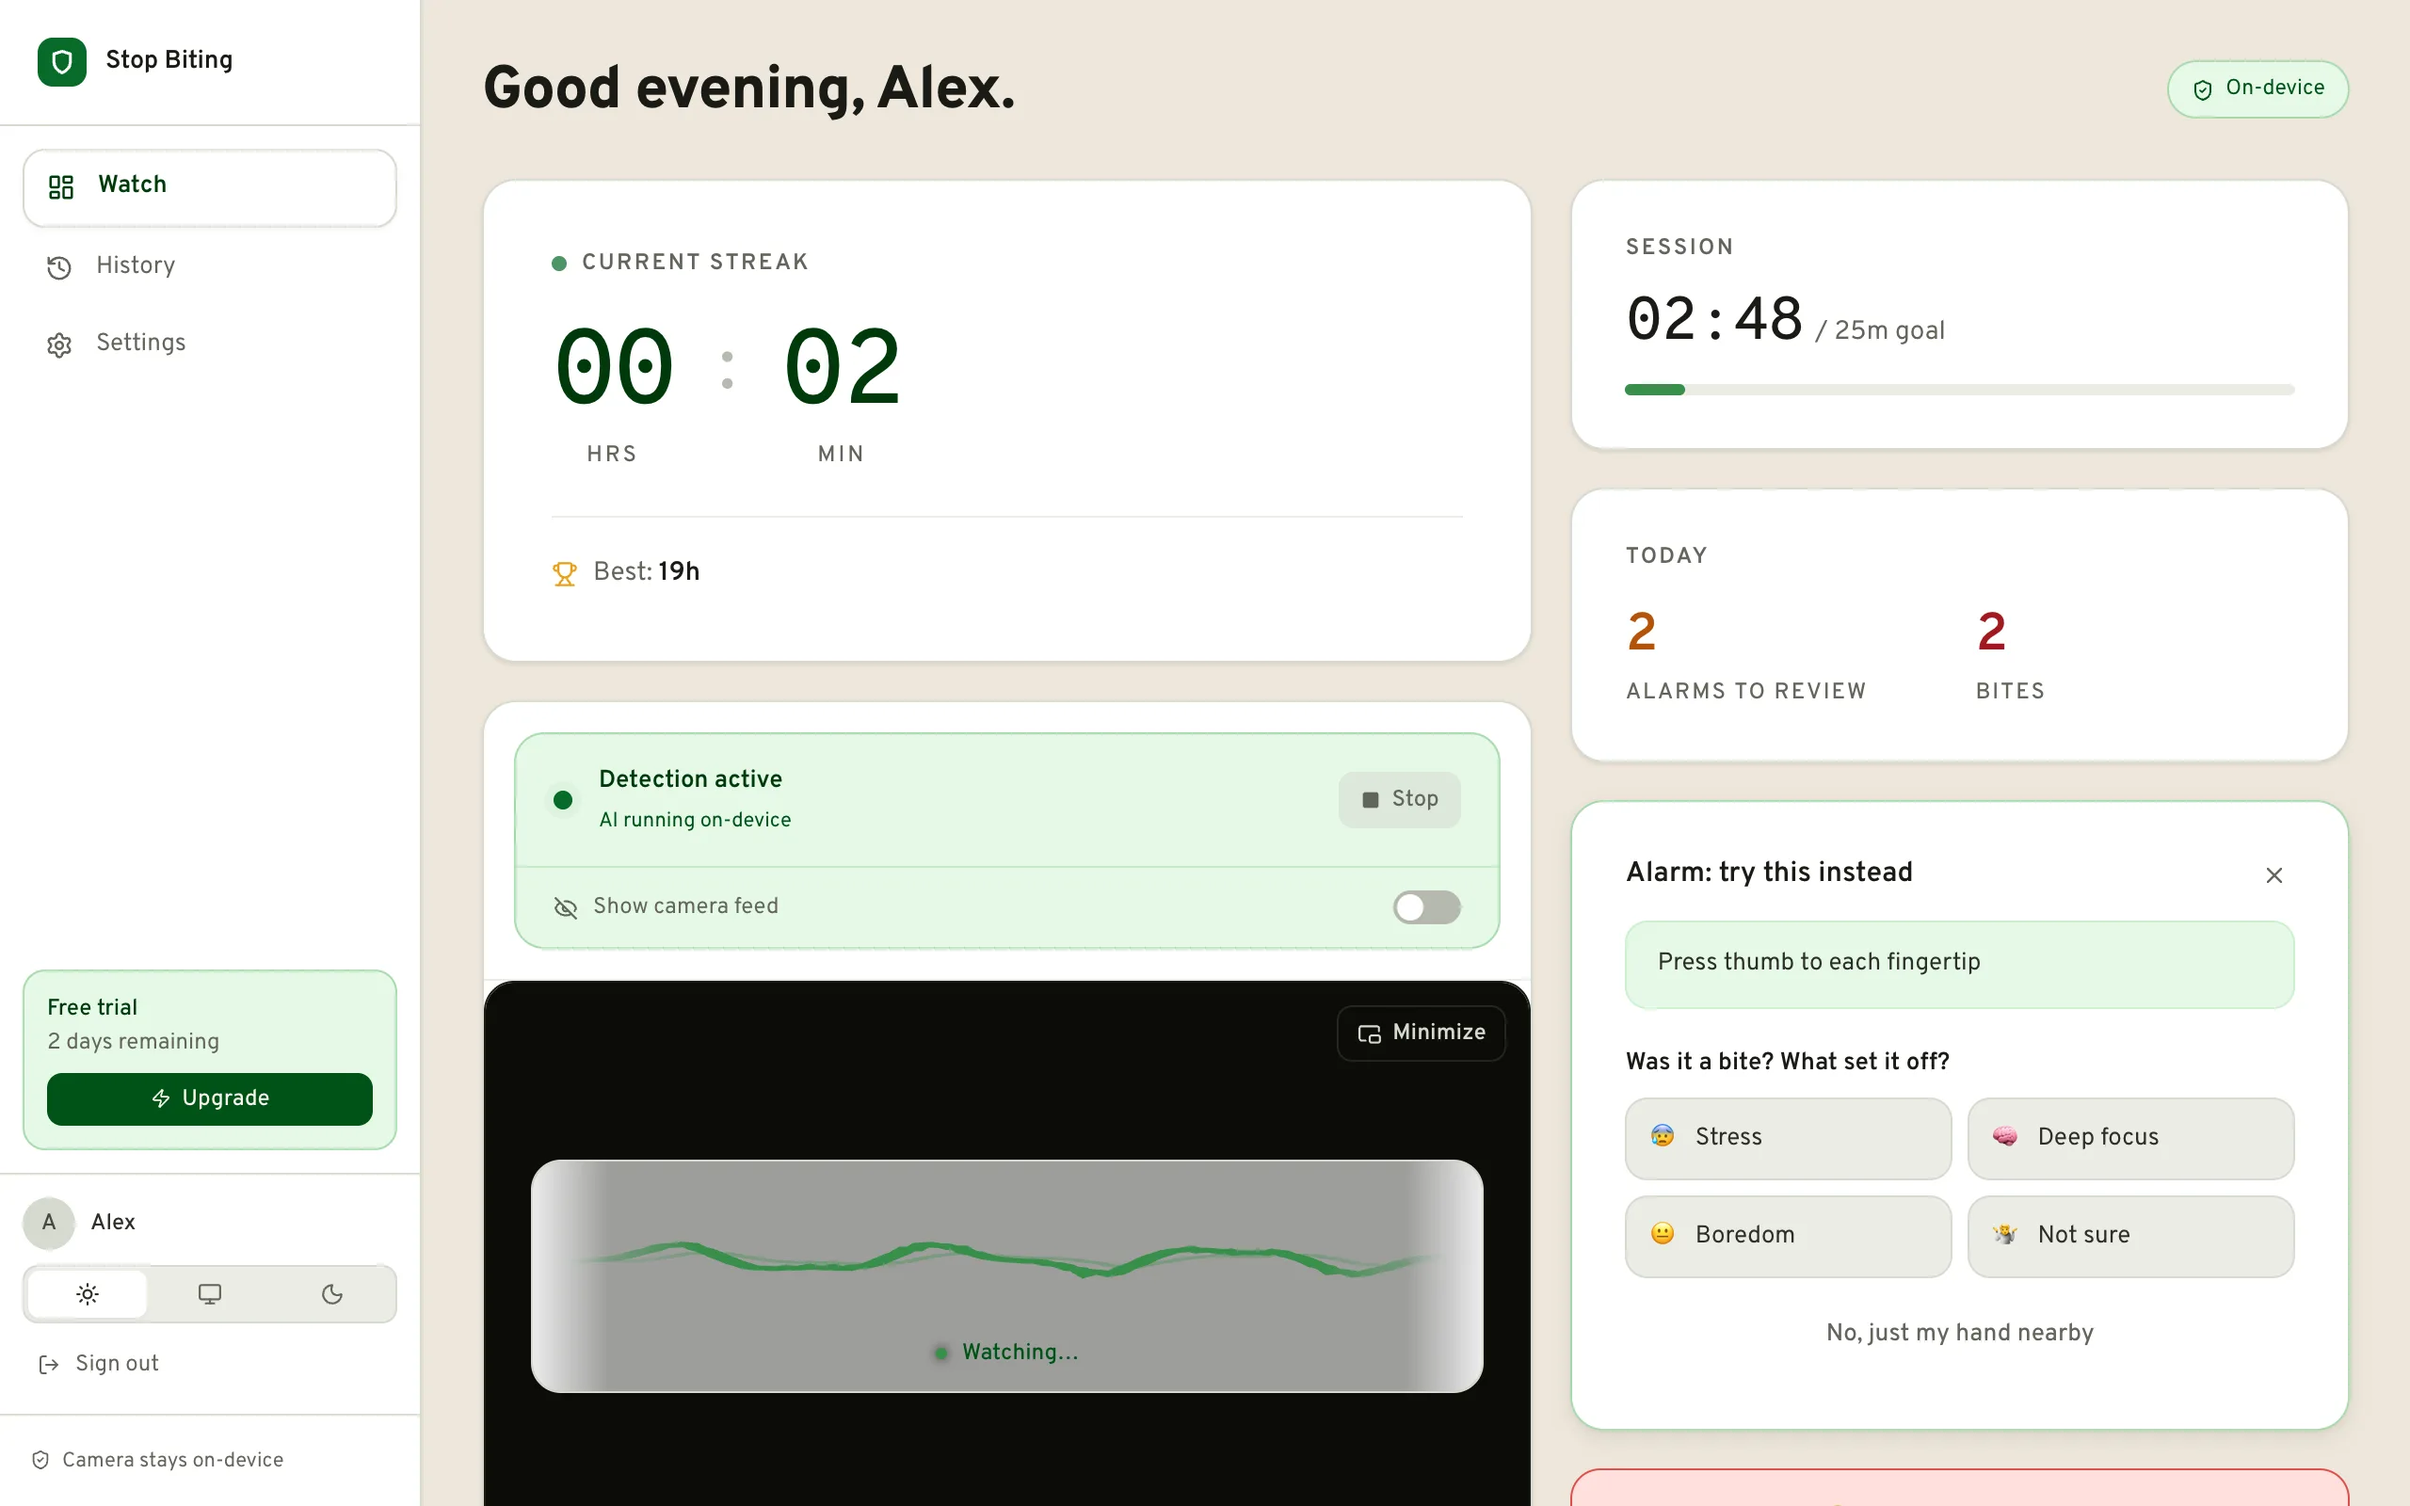
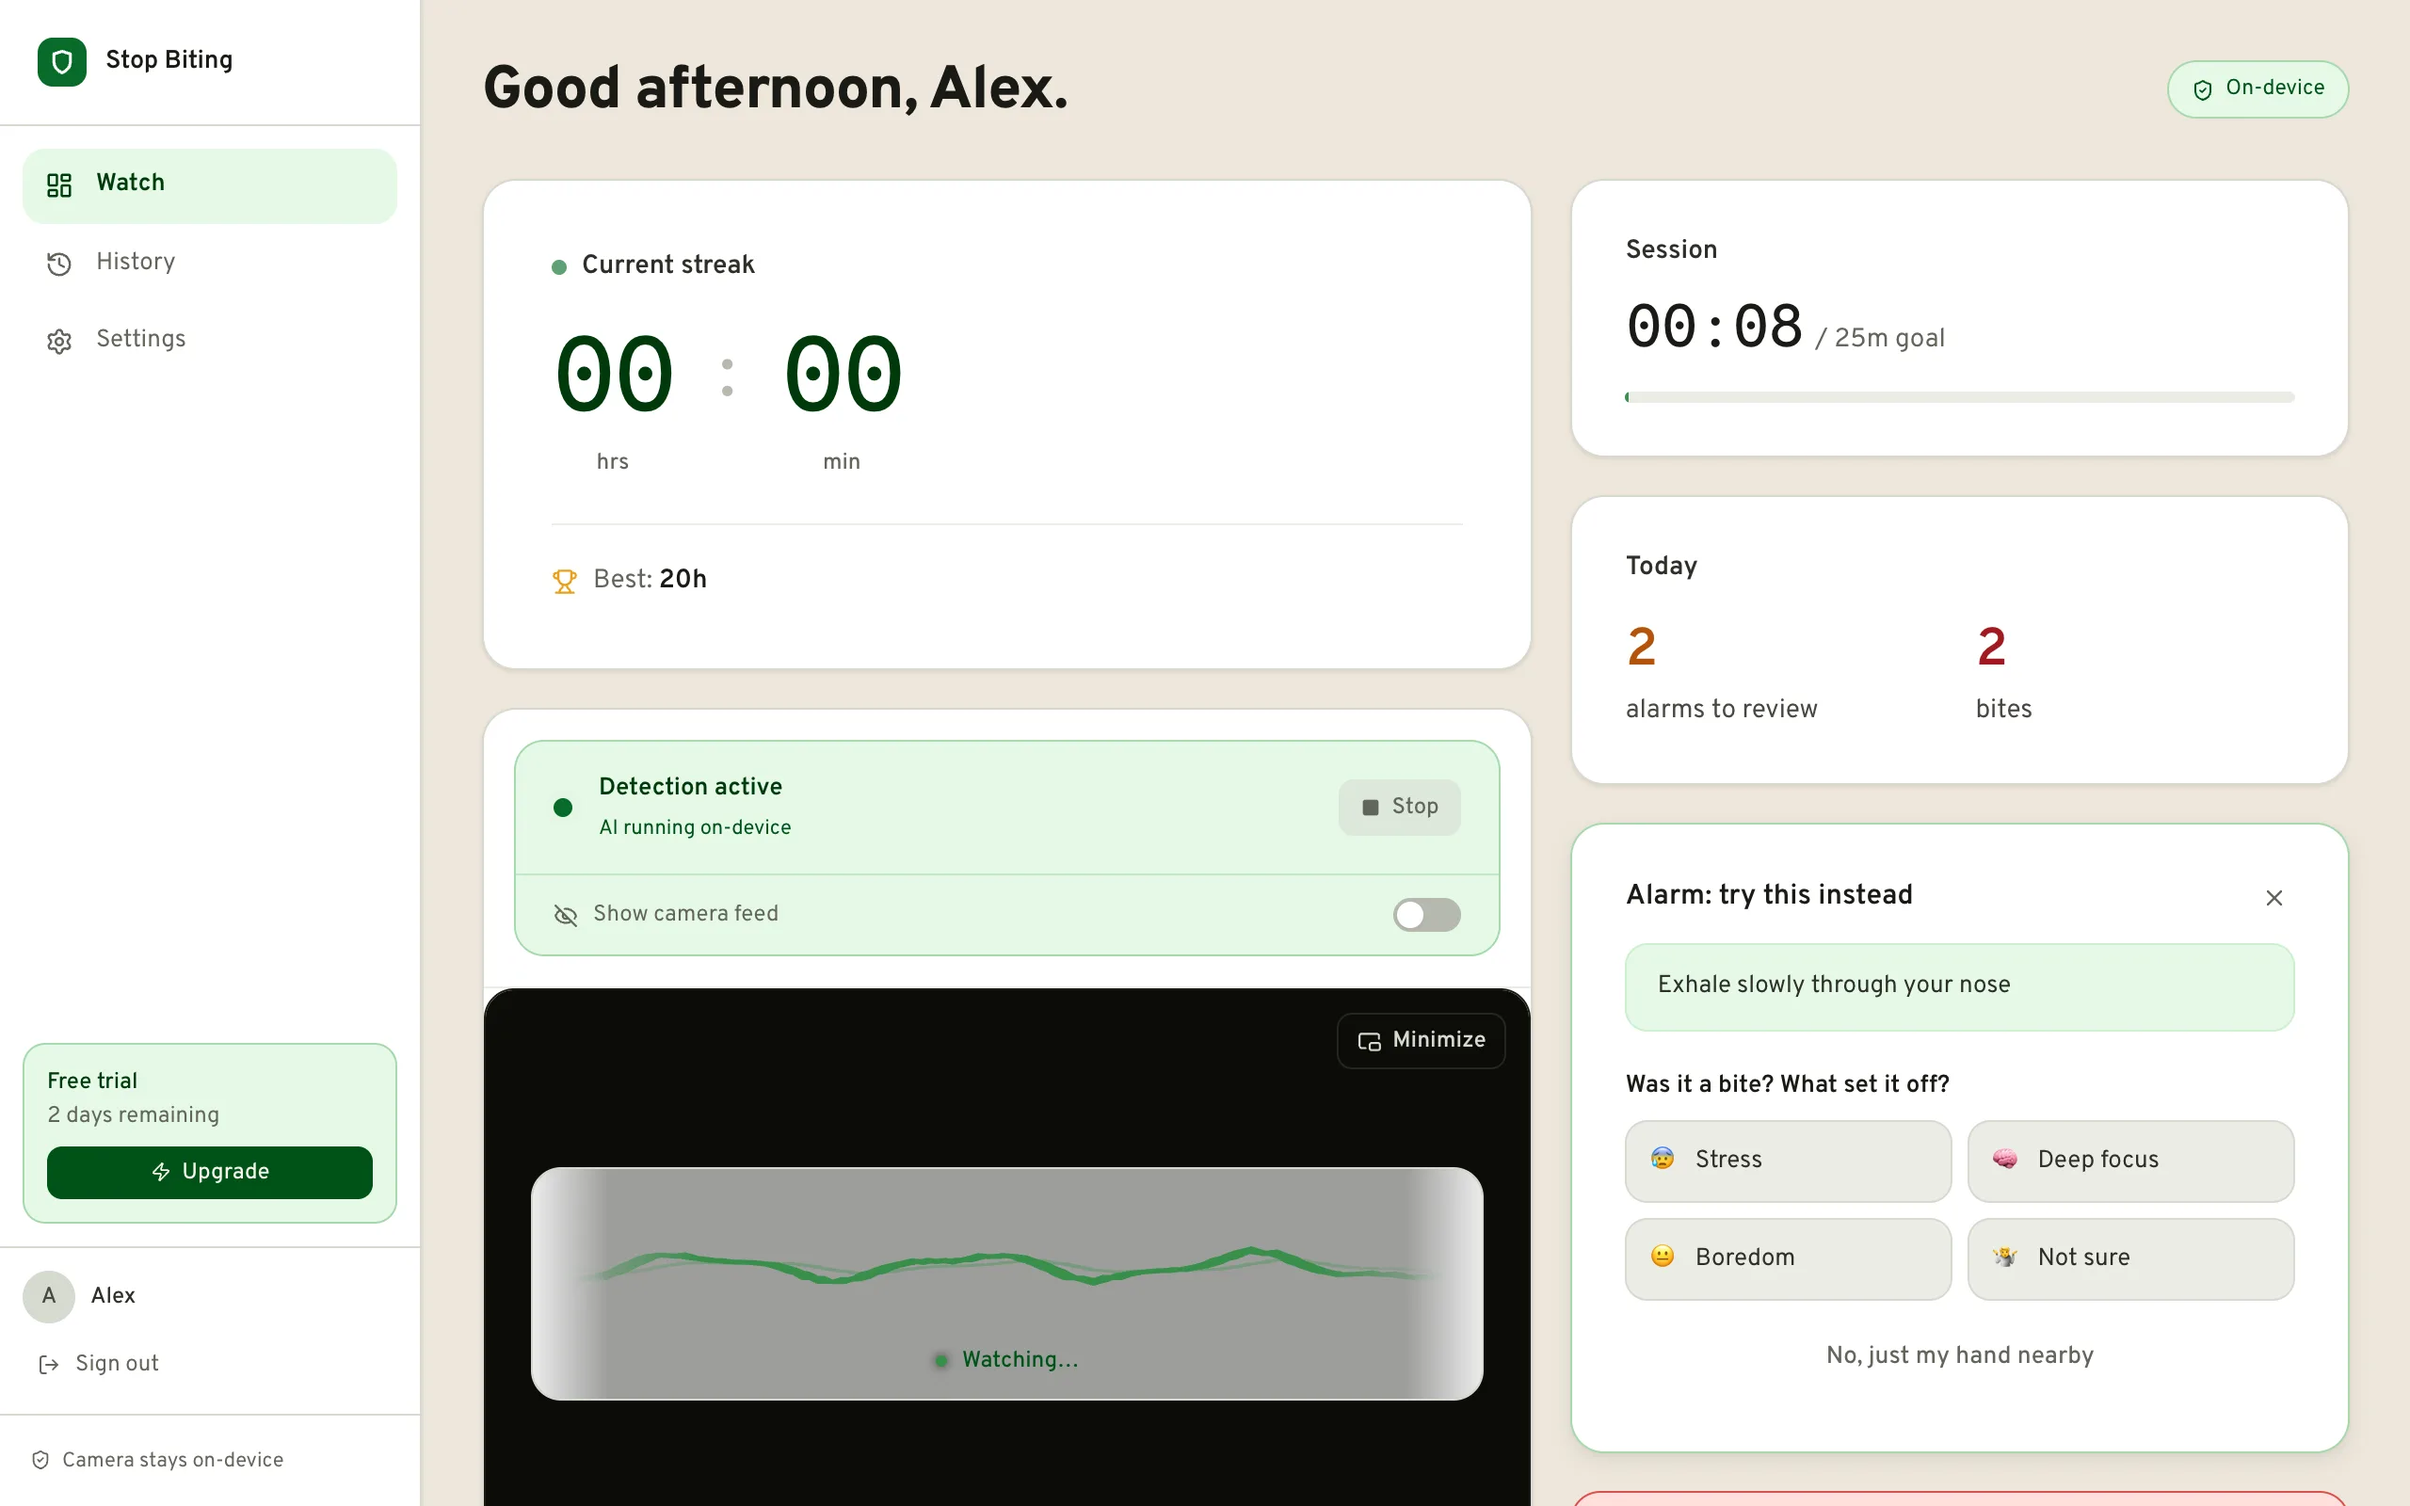
design(loop2 5/10): stop the app shouting its card labels
The last tracked-uppercase labels in the app (Current streak, Session, Today, Summary, the stat labels, History's entry count and day headers) become sentence-case semibold titles and plain stat labels; hrs/min keep their small unit size without forced capitals. Homepage app screenshots recaptured. Checked light and dark.

diff --git a/src/pages/Log.tsx b/src/pages/Log.tsx
@@ -161,7 +161,7 @@ export function Log() {
 
           {incidents.length > 0 && (
             <div className="bg-white dark:bg-ink-50 border border-stone-200 dark:border-ink-400 rounded-2xl p-5 shadow-card dark:shadow-card-dark">
-              <h2 className="text-stone-500 dark:text-stone-400 text-xs uppercase tracking-widest mb-3 font-semibold">Summary</h2>
+              <h2 className="text-sm font-semibold text-stone-700 dark:text-stone-200 mb-3">Summary</h2>
               <div className="space-y-2 text-sm">
                 <div className="flex justify-between">
                   <span className="text-amber-800 dark:text-amber-400">Alarms to review</span>
@@ -194,7 +194,7 @@ export function Log() {
             <div className="space-y-6">
               {/* Header row with clear-all */}
               <div className="flex items-center justify-between px-1">
-                <p className="text-stone-500 dark:text-stone-400 text-xs uppercase tracking-widest font-medium">
+                <p className="text-sm font-medium text-stone-600 dark:text-stone-300">
                   {incidents.length} {incidents.length !== 1 ? 'entries' : 'entry'}
                 </p>
                 <ClearAllButton />
@@ -202,7 +202,7 @@ export function Log() {
 
               {grouped.map(({ date, items }) => (
                 <div key={date}>
-                  <h3 className="text-stone-500 dark:text-stone-400 text-xs uppercase tracking-widest mb-3 px-1 font-medium">{date}</h3>
+                  <h3 className="text-sm font-semibold text-stone-700 dark:text-stone-200 mb-3 px-1">{date}</h3>
                   <div className="space-y-2">
                     {items.map(inc => {
                       const bite = isConfirmedBite(inc);

diff --git a/src/components/dashboard/TodayStats.tsx b/src/components/dashboard/TodayStats.tsx
@@ -11,13 +11,13 @@ export function TodayStats() {
 
   return (
     <div className="bg-white dark:bg-ink-50 border border-stone-200 dark:border-ink-400 rounded-[18px] p-7 shadow-card dark:shadow-card-dark">
-      <p className="text-xs font-semibold tracking-[1.2px] uppercase text-stone-500 dark:text-stone-400 mb-5">Today</p>
+      <p className="text-sm font-semibold text-stone-700 dark:text-stone-200 mb-5">Today</p>
       <div className="grid grid-cols-2 gap-4">
         <div>
           <p className="text-[28px] font-semibold tabular-nums tracking-tight text-amber-700 dark:text-amber-400 leading-none">
             {incidentCount}
           </p>
-          <p className="text-xs uppercase tracking-[1px] text-stone-500 dark:text-stone-400 mt-2 font-medium">
+          <p className="text-sm text-stone-600 dark:text-stone-300 mt-2">
             alarms to review
           </p>
         </div>
@@ -25,7 +25,7 @@ export function TodayStats() {
           <p className="text-[28px] font-semibold tabular-nums tracking-tight text-alert-600 dark:text-alert-400 leading-none">
             {biteCount}
           </p>
-          <p className="text-xs uppercase tracking-[1px] text-stone-500 dark:text-stone-400 mt-2 font-medium">
+          <p className="text-sm text-stone-600 dark:text-stone-300 mt-2">
             bites
           </p>
         </div>

diff --git a/src/components/dashboard/StreakHero.tsx b/src/components/dashboard/StreakHero.tsx
@@ -7,7 +7,7 @@ function Segment({ value, label }: { value: number; label: string }) {
       <span className="font-mono text-[44px] sm:text-[56px] font-medium leading-none tracking-[-2px] tabular-nums text-forest-700 dark:text-forest-300">
         {String(value).padStart(2, '0')}
       </span>
-      <span className="text-xs font-medium tracking-[1.5px] uppercase text-stone-500 dark:text-stone-400 mt-1.5">
+      <span className="text-xs font-medium text-stone-500 dark:text-stone-400 mt-1.5">
         {label}
       </span>
     </div>
@@ -37,7 +37,7 @@ export function StreakHero() {
       {/* Overline */}
       <div className="flex items-center gap-2 mb-6">
         <span className="w-2 h-2 rounded-full bg-forest-500 animate-pulse" />
-        <p className="text-xs font-semibold tracking-[1.2px] uppercase text-stone-500 dark:text-stone-400">
+        <p className="text-sm font-semibold text-stone-700 dark:text-stone-200">
           Current streak
         </p>
       </div>

diff --git a/src/components/dashboard/StreakCard.tsx b/src/components/dashboard/StreakCard.tsx
@@ -23,7 +23,7 @@ export function StreakCard() {
     <div data-tour="streak-card" className={`bg-white dark:bg-ink-50 border border-stone-200 dark:border-ink-400 rounded-2xl p-6 text-center shadow-card dark:shadow-card-dark transition-shadow duration-700 ${ringClass}`}>
       <div className="flex items-center justify-center gap-2 mb-2">
         <span className={`w-2 h-2 rounded-full ${dotColor} animate-pulse`} />
-        <p className="text-stone-500 dark:text-stone-400 text-xs uppercase tracking-[0.15em] font-medium">Current streak</p>
+        <p className="text-sm font-semibold text-stone-700 dark:text-stone-200">Current streak</p>
       </div>
 
       <p className={`text-5xl font-bold tabular-nums ${streakColor} mt-1 tracking-tight`}>

diff --git a/src/components/dashboard/SessionGoal.tsx b/src/components/dashboard/SessionGoal.tsx
@@ -27,7 +27,7 @@ export function SessionGoal() {
 
   return (
     <div className="bg-white dark:bg-ink-50 border border-stone-200 dark:border-ink-400 rounded-[18px] p-7 shadow-card dark:shadow-card-dark">
-      <p className="text-xs font-semibold tracking-[1.2px] uppercase text-stone-500 dark:text-stone-400 mb-4">Session</p>
+      <p className="text-sm font-semibold text-stone-700 dark:text-stone-200 mb-4">Session</p>
 
       <div className="flex items-baseline gap-1.5 mb-1">
         <span className="font-mono text-[32px] font-medium leading-none tabular-nums text-stone-800 dark:text-stone-100 tracking-tight">

diff --git a/tasks/design-loop-2.md b/tasks/design-loop-2.md
@@ -1,11 +1,10 @@
 # Design loop, round 2 (10 iterations, every 5 min)
 
-iterations: 4
+iterations: 5
 
 ## Log
 
 ## Backlog (from the round-2 reviews; top first)
-- 5: App eyebrows left: CURRENT STREAK / SESSION / TODAY / SUMMARY / date headers -> sentence case.
 - 6: Emoji as icons: Settings sound cards + preset trigger tags -> lucide icons (custom tags keep user emoji).
 - 7: Detection status: role=status aria-live, "Detection couldn't load. Check your connection." + 44px "Try again", "Paused while this tab is hidden".
 - 8: History empty state: no emoji, h2 "No history yet", "Go to Watch" button.
@@ -15,3 +14,4 @@ iterations: 4
 - 2/10: blog: shared header (Blog current), shared footer, unified trial CTA; false desktop-app footer claim gone
 - 3/10: blog posts in Overpass: 17px body, heavier headings, AA meta, no double rule; content untouched
 - 4/10: blog index: sentence-case h1, one neutral pill, green active filter, plain cards, compact on mobile
+- 5/10: app card labels sentence case (Current streak, Session, Today, Summary, day headers); homepage shots recaptured
